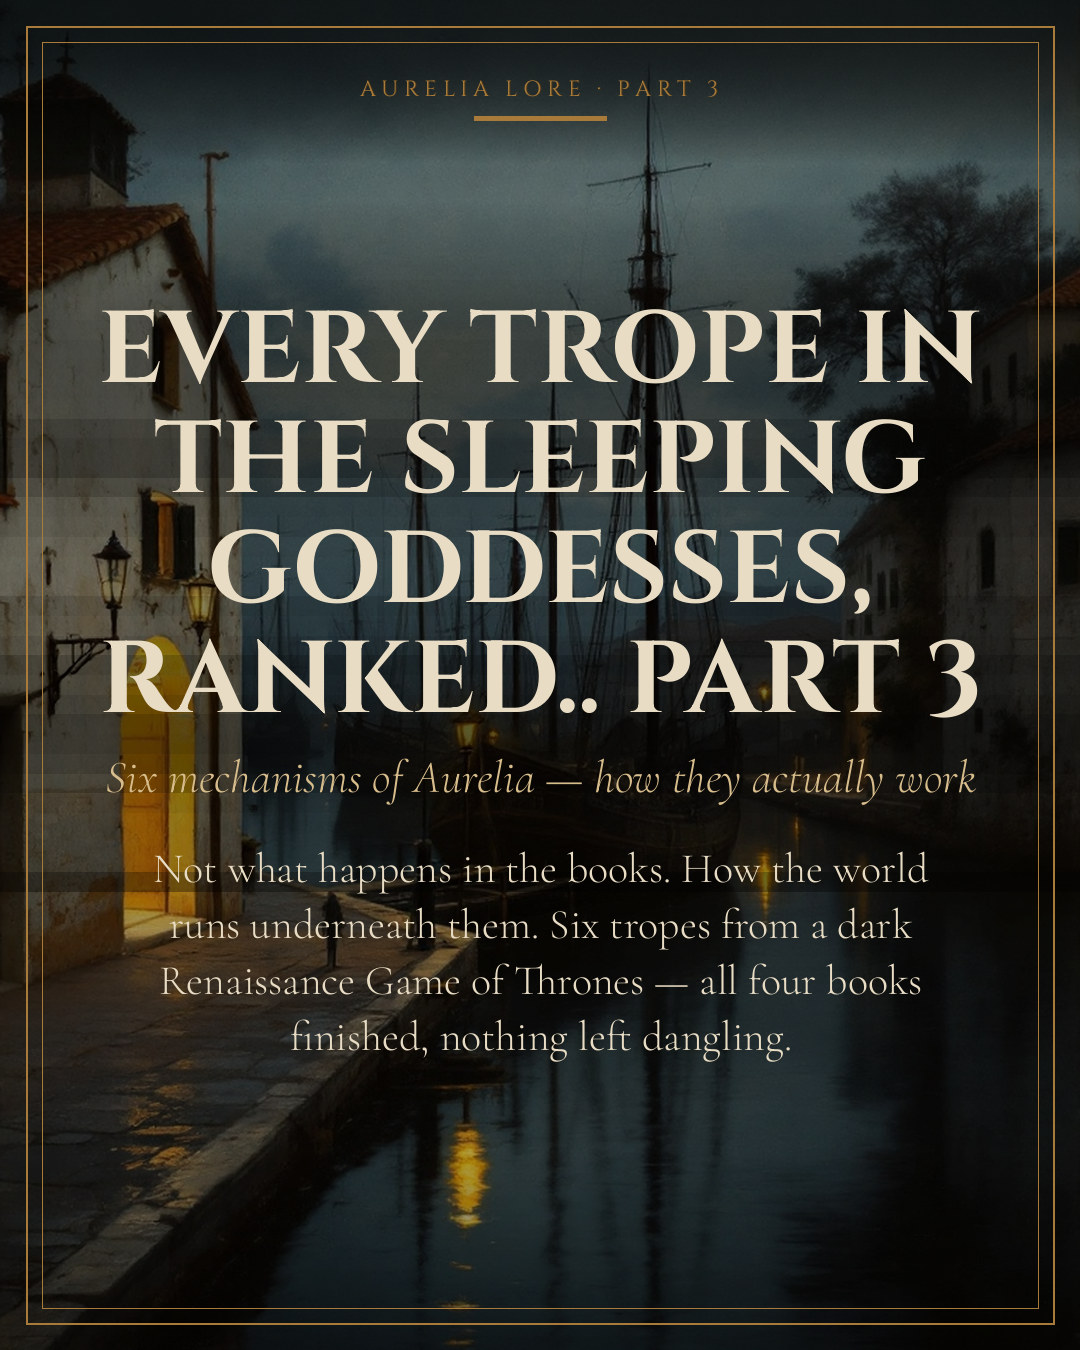
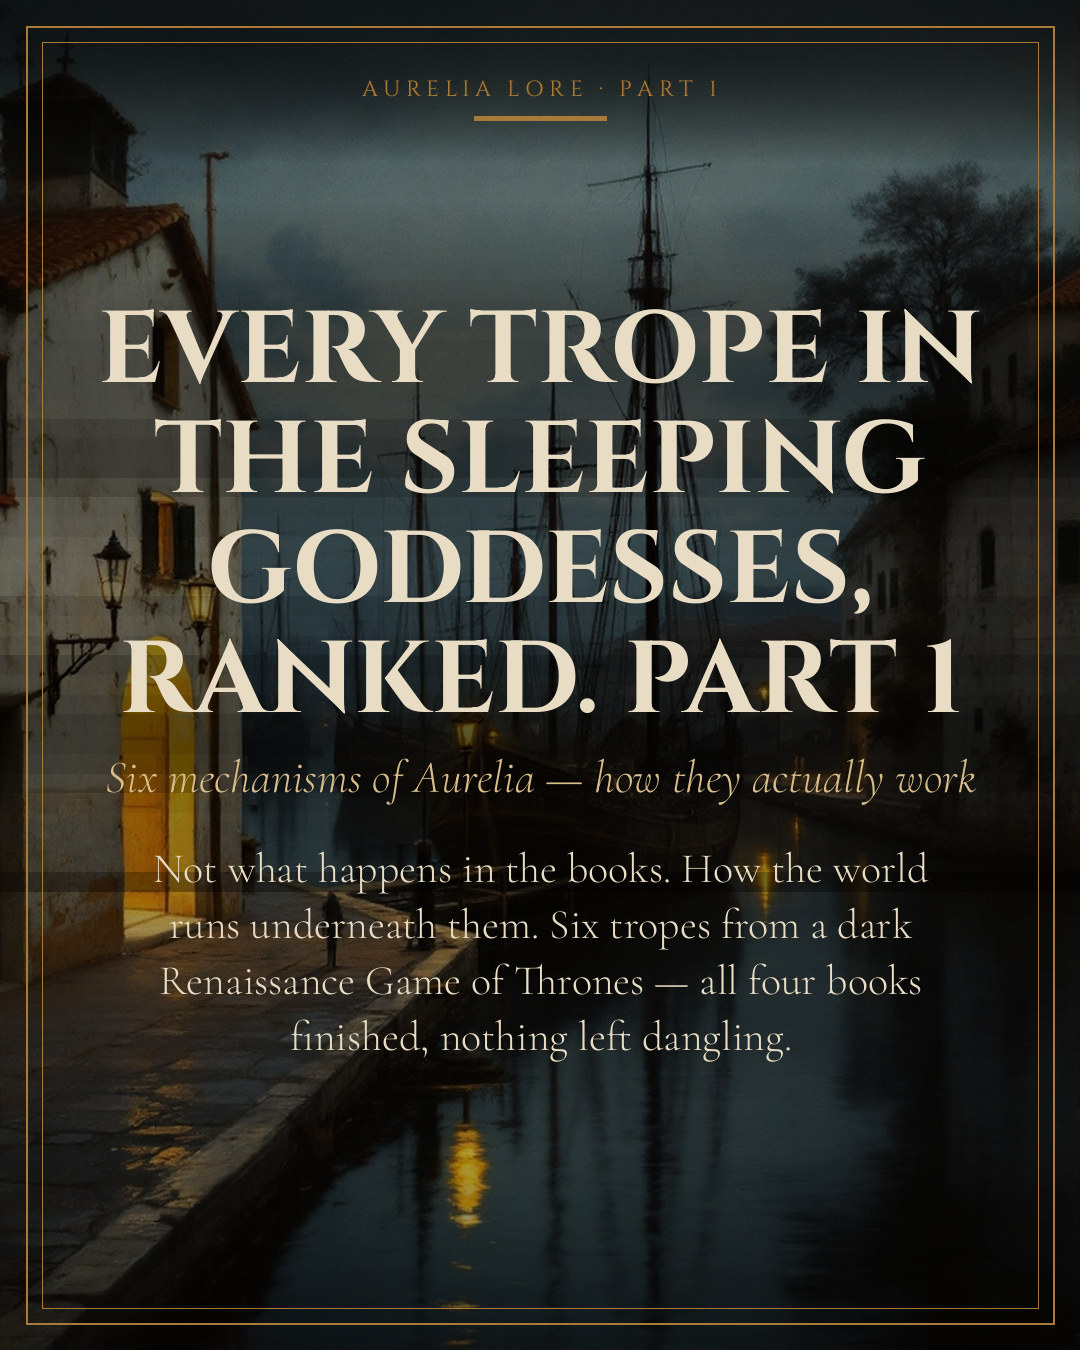
add 2026-11-16-every-trope-in-the-sleeping-goddesses-ranked-part-

diff --git a/2026-11-16-every-trope-in-the-sleeping-goddesses-ranked-part-/tt/index.html b/2026-11-16-every-trope-in-the-sleeping-goddesses-ranked-part-/tt/index.html
@@ -1,7 +1,7 @@
 <!doctype html>
 <html lang="ru"><meta charset="utf-8">
 <meta name="viewport" content="width=device-width,initial-scale=1">
-<title>Every Trope in The Sleeping Goddesses, Ranked.. Part 3 · TikTok 9:16</title>
+<title>Every Trope in The Sleeping Goddesses, Ranked. Part 1 · TikTok 9:16</title>
 <style>
  :root{color-scheme:dark}
  body{margin:0;padding:24px;background:#140c09;color:#f4ebd9;
@@ -15,16 +15,15 @@
             border:1px solid #6b4f2a;display:block}
  video{margin-bottom:24px}
 </style>
-<h1>Every Trope in The Sleeping Goddesses, Ranked.. Part 3 · TikTok 9:16</h1>
-<p class="sub">8 слайдов</p>
+<h1>Every Trope in The Sleeping Goddesses, Ranked. Part 1 · TikTok 9:16</h1>
+<p class="sub">7 слайдов</p>
 <p class="nav"><a href="../">← назад</a></p>
 
-<figure><figcaption>1/8</figcaption><img src="slide-1.jpg" alt="slide 1" loading="lazy"></figure>
-<figure><figcaption>2/8</figcaption><img src="slide-2.jpg" alt="slide 2" loading="lazy"></figure>
-<figure><figcaption>3/8</figcaption><img src="slide-3.jpg" alt="slide 3" loading="lazy"></figure>
-<figure><figcaption>4/8</figcaption><img src="slide-4.jpg" alt="slide 4" loading="lazy"></figure>
-<figure><figcaption>5/8</figcaption><img src="slide-5.jpg" alt="slide 5" loading="lazy"></figure>
-<figure><figcaption>6/8</figcaption><img src="slide-6.jpg" alt="slide 6" loading="lazy"></figure>
-<figure><figcaption>7/8</figcaption><img src="slide-7.jpg" alt="slide 7" loading="lazy"></figure>
-<figure><figcaption>8/8</figcaption><img src="slide-8.jpg" alt="slide 8" loading="lazy"></figure>
+<figure><figcaption>1/7</figcaption><img src="slide-1.jpg" alt="slide 1" loading="lazy"></figure>
+<figure><figcaption>2/7</figcaption><img src="slide-2.jpg" alt="slide 2" loading="lazy"></figure>
+<figure><figcaption>3/7</figcaption><img src="slide-3.jpg" alt="slide 3" loading="lazy"></figure>
+<figure><figcaption>4/7</figcaption><img src="slide-4.jpg" alt="slide 4" loading="lazy"></figure>
+<figure><figcaption>5/7</figcaption><img src="slide-5.jpg" alt="slide 5" loading="lazy"></figure>
+<figure><figcaption>6/7</figcaption><img src="slide-6.jpg" alt="slide 6" loading="lazy"></figure>
+<figure><figcaption>7/7</figcaption><img src="slide-7.jpg" alt="slide 7" loading="lazy"></figure>
 </html>

diff --git a/2026-11-16-every-trope-in-the-sleeping-goddesses-ranked-part-/index.html b/2026-11-16-every-trope-in-the-sleeping-goddesses-ranked-part-/index.html
@@ -1,7 +1,7 @@
 <!doctype html>
 <html lang="ru"><meta charset="utf-8">
 <meta name="viewport" content="width=device-width,initial-scale=1">
-<title>Every Trope in The Sleeping Goddesses, Ranked.. Part 3 · IG 4:5</title>
+<title>Every Trope in The Sleeping Goddesses, Ranked. Part 1 · IG 4:5</title>
 <style>
  :root{color-scheme:dark}
  body{margin:0;padding:24px;background:#140c09;color:#f4ebd9;
@@ -15,16 +15,15 @@
             border:1px solid #6b4f2a;display:block}
  video{margin-bottom:24px}
 </style>
-<h1>Every Trope in The Sleeping Goddesses, Ranked.. Part 3 · IG 4:5</h1>
-<p class="sub">8 слайдов</p>
+<h1>Every Trope in The Sleeping Goddesses, Ranked. Part 1 · IG 4:5</h1>
+<p class="sub">7 слайдов</p>
 
 
-<figure><figcaption>1/8</figcaption><img src="slide-1.jpg" alt="slide 1" loading="lazy"></figure>
-<figure><figcaption>2/8</figcaption><img src="slide-2.jpg" alt="slide 2" loading="lazy"></figure>
-<figure><figcaption>3/8</figcaption><img src="slide-3.jpg" alt="slide 3" loading="lazy"></figure>
-<figure><figcaption>4/8</figcaption><img src="slide-4.jpg" alt="slide 4" loading="lazy"></figure>
-<figure><figcaption>5/8</figcaption><img src="slide-5.jpg" alt="slide 5" loading="lazy"></figure>
-<figure><figcaption>6/8</figcaption><img src="slide-6.jpg" alt="slide 6" loading="lazy"></figure>
-<figure><figcaption>7/8</figcaption><img src="slide-7.jpg" alt="slide 7" loading="lazy"></figure>
-<figure><figcaption>8/8</figcaption><img src="slide-8.jpg" alt="slide 8" loading="lazy"></figure>
+<figure><figcaption>1/7</figcaption><img src="slide-1.jpg" alt="slide 1" loading="lazy"></figure>
+<figure><figcaption>2/7</figcaption><img src="slide-2.jpg" alt="slide 2" loading="lazy"></figure>
+<figure><figcaption>3/7</figcaption><img src="slide-3.jpg" alt="slide 3" loading="lazy"></figure>
+<figure><figcaption>4/7</figcaption><img src="slide-4.jpg" alt="slide 4" loading="lazy"></figure>
+<figure><figcaption>5/7</figcaption><img src="slide-5.jpg" alt="slide 5" loading="lazy"></figure>
+<figure><figcaption>6/7</figcaption><img src="slide-6.jpg" alt="slide 6" loading="lazy"></figure>
+<figure><figcaption>7/7</figcaption><img src="slide-7.jpg" alt="slide 7" loading="lazy"></figure>
 </html>
